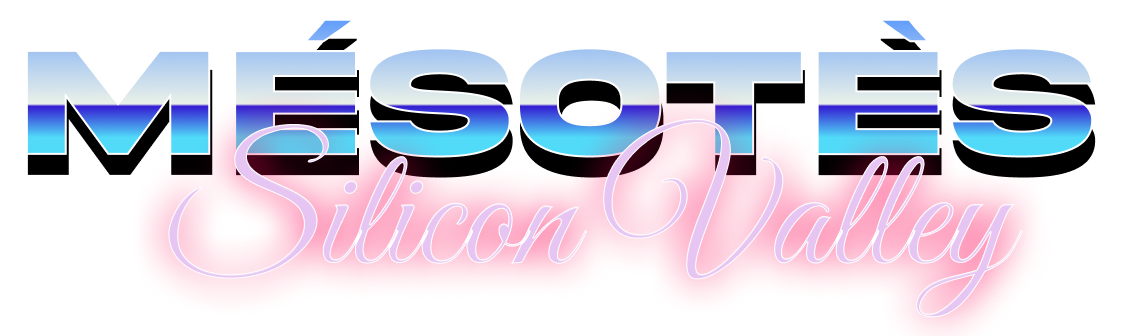
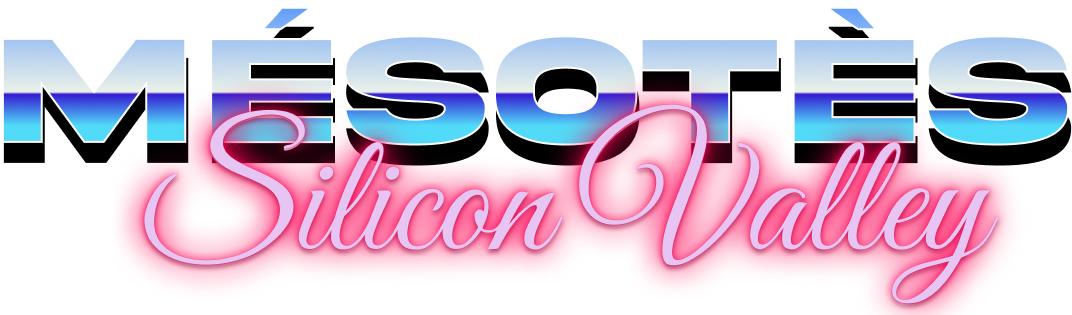
add bg footer, modif of the bg hero and H1 image of the hero

diff --git a/src/components/footer.vue b/src/components/footer.vue
@@ -1,5 +1,9 @@
 <script setup>
-import mdsLogo from '../assets/MDS.png'
+import footerBg from '../assets/Footer.png'
+
+defineProps({
+  bgClass: { type: String, default: 'bg-retrogrid-black' },
+})
 
 const dolfiLogoUrl =
   'https://dolfi-formation.fr/wp-content/uploads/2024/10/logo-dolfi-2025-blanc.webp'
@@ -7,48 +11,51 @@ const dolfiLogoUrl =
 
 <template>
   <footer
-    class="border-t border-white/10 text-white"
-    style="background-color: var(--color-retrogrid-black)"
+    class="relative border-t border-white/10 text-white bg-cover bg-top bg-no-repeat"
+    :class="bgClass"
+    :style="{ backgroundImage: `url(${footerBg})`, minHeight: '50vw' }"
   >
-    <!-- Ligne principale : branding + nav -->
-    <div
-      class="max-w-6xl mx-auto px-6 pt-10 pb-6 flex flex-col sm:flex-row items-center justify-between gap-6"
-    >
-      <div class="text-center sm:text-left">
-        <img src="../assets/logo.png" alt="Mésotès" class="h-12 sm:h-16 mb-1" />
-        <p class="text-white/50 text-sm">Plateforme pédagogique IA</p>
+    <!-- Contenu -->
+    <div class="relative z-10">
+      <!-- Ligne principale : branding + nav -->
+      <div
+        class="max-w-6xl mx-auto px-6 pt-10 pb-6 flex flex-col sm:flex-row items-center justify-between gap-6"
+      >
+        <div class="text-center sm:text-left">
+          <img src="../assets/logo.png" alt="Mésotès" class="h-12 sm:h-16 mb-1" />
+          <p class="text-white/50 text-sm">Plateforme pédagogique IA</p>
+        </div>
+
+        <nav class="flex gap-8 text-sm text-white/60">
+          <a href="/accueil" class="hover:text-white transition-colors">Accueil</a>
+          <a href="/ressources" class="hover:text-white transition-colors">Ressources</a>
+          <a href="/a-propos" class="hover:text-white transition-colors">À propos</a>
+        </nav>
       </div>
 
-      <nav class="flex gap-8 text-sm text-white/60">
-        <a href="/accueil" class="hover:text-white transition-colors">Accueil</a>
-        <a href="/ressources" class="hover:text-white transition-colors">Ressources</a>
-        <a href="/a-propos" class="hover:text-white transition-colors">À propos</a>
-      </nav>
-    </div>
-
-    <!-- Partenaires -->
-    <div class="max-w-6xl mx-auto px-6 py-6 border-t border-white/10">
-      <p class="text-xs font-semibold uppercase tracking-widest text-white/40 text-center mb-4">
-        Partenaires
-      </p>
-      <div class="flex flex-wrap items-center justify-center gap-6">
-        <img :src="dolfiLogoUrl" alt="Dolfi Formation" class="h-10 sm:h-12 object-contain" />
+      <!-- Partenaires -->
+      <div class="max-w-6xl mx-auto px-6 py-6 border-t border-white/10">
+        <p class="text-xs font-semibold uppercase tracking-widest text-white/40 text-center mb-4">
+          Partenaires
+        </p>
+        <div class="flex flex-wrap items-center justify-center gap-6">
+          <img :src="dolfiLogoUrl" alt="Dolfi Formation" class="h-10 sm:h-12 object-contain" />
+        </div>
       </div>
-    </div>
 
-    <!-- Bas de page : liens légaux + copyright -->
-    <div
-      class="max-w-6xl mx-auto px-6 py-4 border-t border-white/10 flex flex-col sm:flex-row items-center justify-between gap-3"
-    >
-      <div class="flex gap-6 text-xs text-white/40">
-        <a href="#" class="hover:text-white/70 transition-colors"
-          >Conditions Générales d'Utilisation</a
+      <!-- Bas de page : liens légaux + copyright -->
+      <div
+        class="max-w-6xl mx-auto px-6 py-4 border-t border-white/10 flex flex-col sm:flex-row items-center justify-between gap-3"
+      >
+        <div class="flex gap-6 text-xs text-white/40">
+          <a href="#" class="hover:text-white/70 transition-colors"
+            >Conditions Générales d'Utilisation</a
+          >
+        </div>
+        <a href="#" class="text-white/30 text-xs hover:text-white/70 transition-colors"
+          >Mentions légales</a
         >
       </div>
-      <p class="text-white/30 text-xs">Mésotès — Tous droits réservés</p>
-      <a href="#" class="text-white/30 text-xs hover:text-white/70 transition-colors"
-        >Mentions légales</a
-      >
     </div>
   </footer>
 </template>

diff --git a/src/App.vue b/src/App.vue
@@ -9,8 +9,6 @@ import galerieImg from './assets/galerie.png'
 import { h } from 'vue'
 import Footer from './components/footer.vue'
 
-import ordinateur from './assets/ordinateur.svg'
-
 const scrollTo = (id) => {
   document.getElementById(id)?.scrollIntoView({ behavior: 'smooth' })
 }
@@ -100,5 +98,5 @@ const activites = [
     </div>
   </div>
 
-  <Footer />
+  <Footer bg-class="bg-[#000000]" />
 </template>